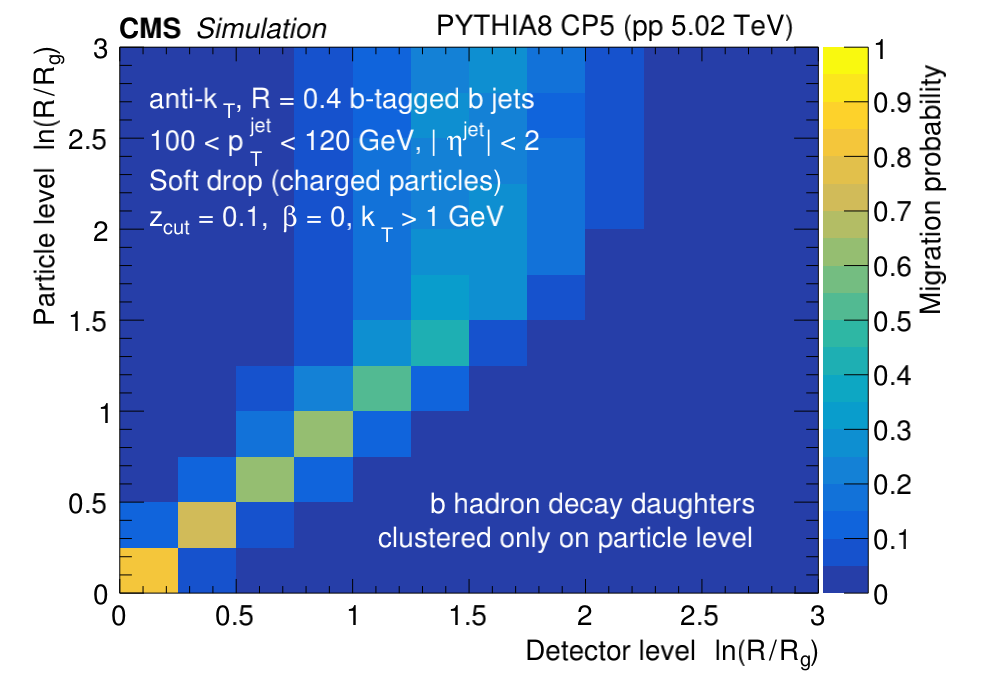
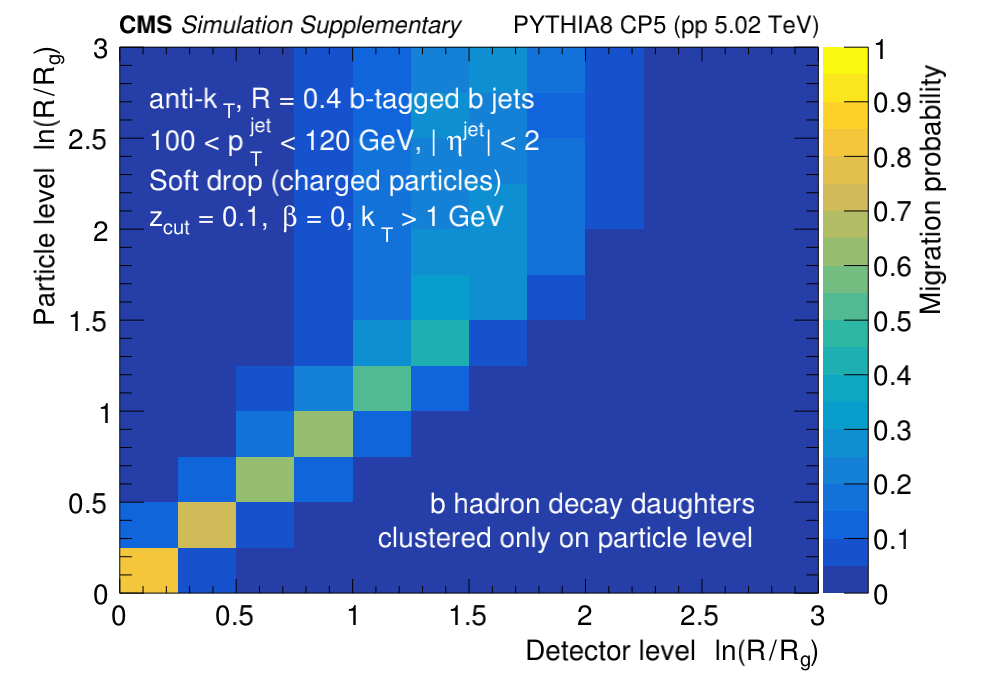
add supplementary to title

Changed region(s): [[0.1242, 0.0, 0.8387, 0.0623]]

diff --git a/myMacros/C106X/draw_substructure.C b/myMacros/C106X/draw_substructure.C
@@ -31,7 +31,7 @@ void draw_substructure(TString observable="rg")
     if (observable=="rg") xlabel = "ln(R^{}/^{}R_{g})";
     else if (observable=="zg") xlabel = "z_{g}";
 
-    TString label = "aggrTMVA_fixedMassBug";
+    TString label = "aggrGenNoReco_fixedMassBug";
     TString sample = "bjet";
     TString fin_name = "./histos/" + sample + "_" + label + "_substructure.root"; 
     std::cout << "fin: " << fin_name << std::endl;
@@ -158,7 +158,17 @@ void draw_substructure(TString observable="rg")
     else bdecay2 = "not clustered on both levels";
     jet_info3->DrawLatex(0.78, 0.2, bdecay2);
 
-    draw_info();
+    TLatex *prelim = new TLatex;
+    prelim->SetNDC();
+    prelim->SetTextSize(26);
+    prelim->SetTextAlign(12);
+    prelim->DrawLatex(0.12, 0.96, "#bf{CMS} #it{Simulation Supplementary}");
+
+    TLatex *lumi = new TLatex;
+    lumi->SetNDC();
+    lumi->SetTextSize(26);
+    lumi->SetTextAlign(32);
+    lumi->DrawLatex(0.82, 0.96, "PYTHIA8 CP5 (pp 5.02 TeV)");
 
     c_SingleBtag_reco_vs_gen->Print("plots_an/"+sample+"_"+label+"_"+observable+"_reco_vs_gen.pdf");
     c_SingleBtag_reco_vs_gen->Print("plots_an/"+sample+"_"+label+"_"+observable+"_reco_vs_gen.png");
